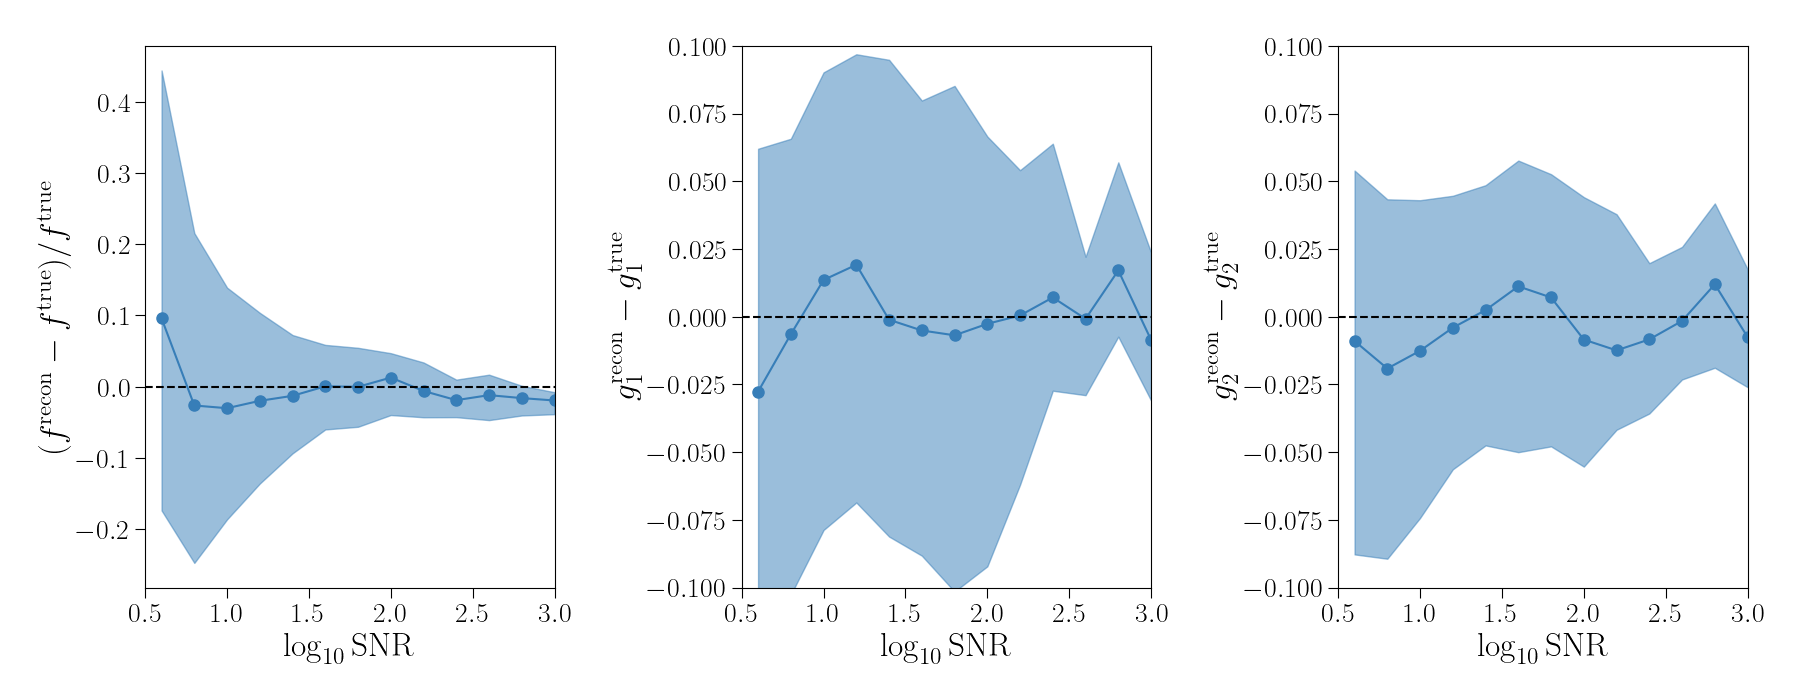
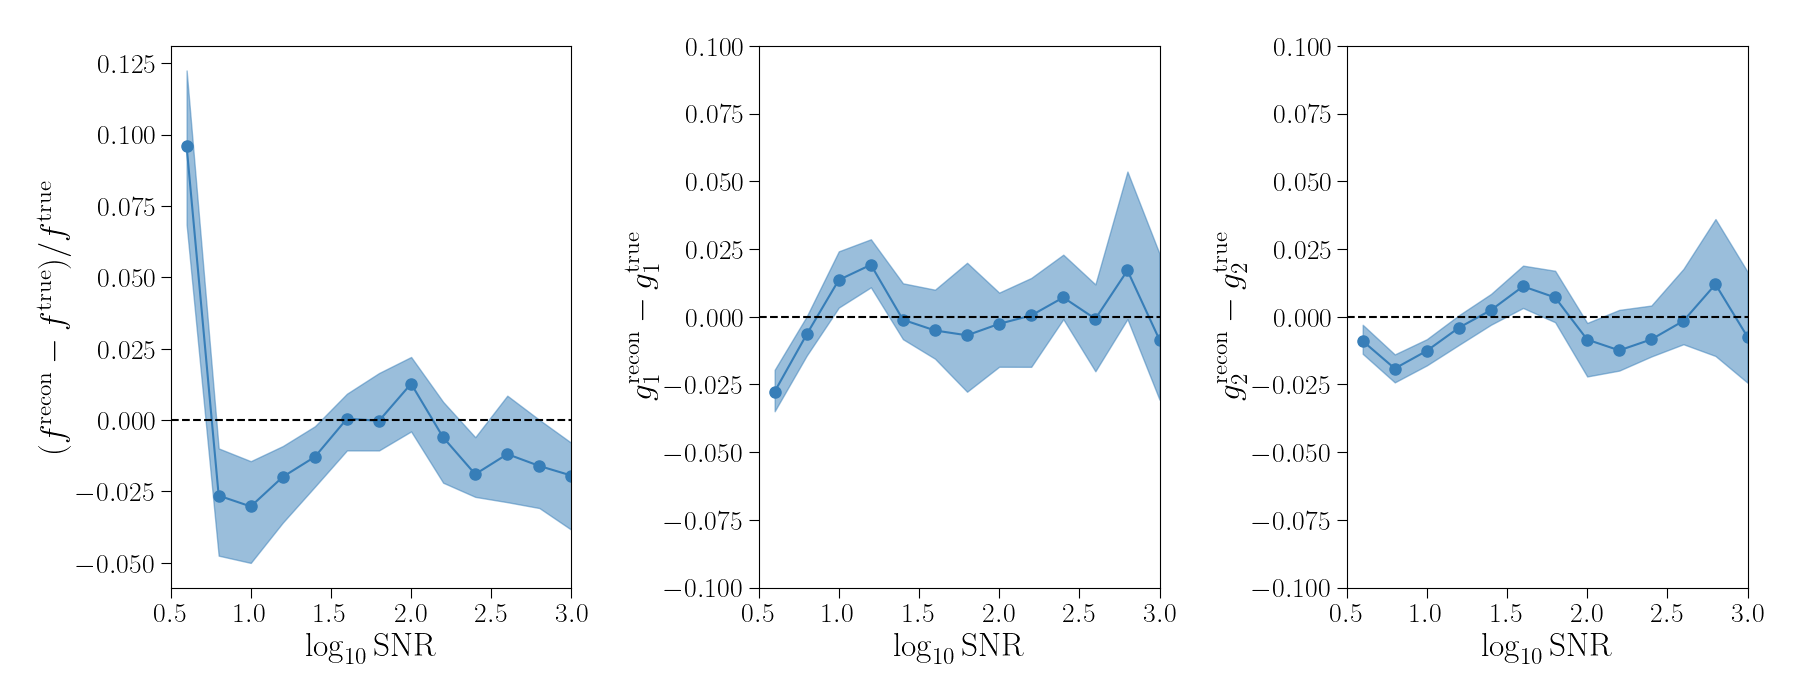
use boostrap to compute errors on mean/median of residuals (#17)
* use mean or median when computing scatter shade plot, but use boostrap 95% confidence interval to plot as the error

* fix ylims

* flake8

diff --git a/case_studies/galsim_galaxies/scripts_figures/blend_figures.py b/case_studies/galsim_galaxies/scripts_figures/blend_figures.py
@@ -226,16 +226,16 @@ class BlendSimulationFigure(BlissFigure):
         xlabel = r"$\log_{10} \rm SNR$"
         ylabel = r"\rm $(f^{\rm recon} - f^{\rm true}) / f^{\rm true}$"
         x, y = np.log10(snr), (efluxes - tfluxes) / tfluxes
-        scatter_shade_plot(ax1, x, y, xlims, delta=0.2)
+        scatter_shade_plot(ax1, x, y, xlims, delta=0.2, use_boot=True)
         ax1.set_ylabel(ylabel)
         ax1.axhline(0, ls="--", color="k")
-        ax1.set_ylim(-0.5, 0.5)
+        ax1.set_ylim(-0.2, 0.4)
 
         xlims = (0, 0.5)
         x, y = blendedness, (efluxes - tfluxes) / tfluxes
-        scatter_shade_plot(ax2, x, y, xlims, delta=0.05)
+        scatter_shade_plot(ax2, x, y, xlims, delta=0.05, use_boot=True)
         ax2.axhline(0, ls="--", color="k")
-        ax2.set_ylim(-0.5, 0.5)
+        ax2.set_ylim(-0.2, 0.4)
 
         # need to mask the (very few) ellipticities that are NaNs from adaptive moments
         te1, te2 = true_ellips[:, 0], true_ellips[:, 1]
@@ -244,38 +244,38 @@ class BlendSimulationFigure(BlissFigure):
         xlims = (0.5, 3)
         ylabel = r"$g_{1}^{\rm recon} - g_{1}^{\rm true}$"
         x, y = np.log10(snr)[mask], (pe1 - te1)[mask]
-        scatter_shade_plot(ax3, x, y, xlims, delta=0.2)
+        scatter_shade_plot(ax3, x, y, xlims, delta=0.2, use_boot=True)
         ax3.set_ylabel(ylabel)
         ax3.axhline(0, ls="--", color="k")
-        ax3.set_ylim(-0.2, 0.2)
+        ax3.set_ylim(-0.05, 0.1)
 
         xlims = (0, 0.5)
         x, y = blendedness[mask], (pe1 - te1)[mask]
-        scatter_shade_plot(ax4, x, y, xlims, delta=0.05)
+        scatter_shade_plot(ax4, x, y, xlims, delta=0.05, use_boot=True)
         ax4.axhline(0, ls="--", color="k")
-        ax4.set_ylim(-0.2, 0.2)
+        ax4.set_ylim(-0.05, 0.1)
 
         xticks = [0.5, 1.0, 1.5, 2.0, 2.5, 3.0]
         xlims = (0.5, 3)
         xlabel = r"$\log_{10} \rm SNR$"
         ylabel = r"$g_{2}^{\rm recon} - g_{2}^{\rm true}$"
         x, y = np.log10(snr)[mask], (pe2 - te2)[mask]
-        scatter_shade_plot(ax5, x, y, xlims, delta=0.2)
+        scatter_shade_plot(ax5, x, y, xlims, delta=0.2, use_boot=True)
         ax5.set_xlabel(xlabel)
         ax5.set_ylabel(ylabel)
         ax5.set_xticks(xticks)
         ax5.axhline(0, ls="--", color="k")
-        ax5.set_ylim(-0.2, 0.2)
+        ax5.set_ylim(-0.05, 0.1)
 
         xticks = [0, 0.1, 0.2, 0.3, 0.4, 0.5]
         xlims = (0, 0.5)
         xlabel = "$B$"
         x, y = blendedness[mask], (pe2 - te2)[mask]
-        scatter_shade_plot(ax6, x, y, xlims=xlims, delta=0.05)
+        scatter_shade_plot(ax6, x, y, xlims=xlims, delta=0.05, use_boot=True)
         ax6.set_xlabel(xlabel)
         ax6.set_xticks(xticks)
         ax6.axhline(0, ls="--", color="k")
-        ax6.set_ylim(-0.2, 0.2)
+        ax6.set_ylim(-0.05, 0.1)
 
         plt.tight_layout()
 

diff --git a/bliss/plotting.py b/bliss/plotting.py
@@ -225,16 +225,26 @@ def add_loc_legend(ax: mpl.axes.Axes, labels: list, cmap1="cool", cmap2="bwr", s
     )
 
 
+def _bootstrap_quantiles(x, fnc, qs, n_boots=10000) -> float:
+    """Return boostrap error of function `fnc` applied to array `x`."""
+    x_boot = np.random.choice(x, size=(n_boots, len(x)), replace=True)
+    x_hat = fnc(x_boot, axis=-1)
+    return np.quantile(x_hat, qs[0]), np.quantile(x_hat, qs[1])
+
+
 def scatter_shade_plot(
     ax: Axes,
     x: np.ndarray,
     y: np.ndarray,
     xlims: Tuple[float, float],
     delta: float,
-    qs: Tuple[float, float] = (0.25, 0.75),
     color: str = "#377eb8",
     alpha: float = 0.5,
+    qs: Tuple[float, float] = (0.025, 0.975),  # 95% confidence interval
+    use_boot=False,
+    use_mean=False,
 ):
+    assert x.ndim == y.ndim == 1
     xbins = np.arange(xlims[0], xlims[1], delta)
 
     xs = np.zeros(len(xbins))
@@ -252,8 +262,13 @@ def scatter_shade_plot(
             yqs[i] = (np.nan, np.nan)
             continue
 
-        ys[i] = np.median(y_bin)
-        yqs[i, :] = np.quantile(y_bin, qs[0]), np.quantile(y_bin, qs[1])
+        fnc = np.mean if use_mean else np.median
+
+        ys[i] = fnc(y_bin)
+        if use_boot:
+            yqs[i, :] = _bootstrap_quantiles(y_bin, fnc, qs)
+        else:
+            yqs[i, :] = np.quantile(y_bin, qs[0]), np.quantile(y_bin, qs[1])
 
     ax.plot(xs, ys, marker="o", c=color, linestyle="-")
     ax.fill_between(xs, yqs[:, 0], yqs[:, 1], color=color, alpha=alpha)

diff --git a/case_studies/galsim_galaxies/scripts_figures/ae_figures.py b/case_studies/galsim_galaxies/scripts_figures/ae_figures.py
@@ -103,7 +103,7 @@ class AutoEncoderFigures(BlissFigure):
         # fluxes
         true_fluxes, recon_fluxes = meas["true_fluxes"], meas["recon_fluxes"]
         x, y = np.log10(snr), (recon_fluxes - true_fluxes) / true_fluxes
-        scatter_shade_plot(ax1, x, y, xlims, delta=0.2)
+        scatter_shade_plot(ax1, x, y, xlims, delta=0.2, use_boot=True)
         ax1.set_xlim(xlims)
         ax1.set_xlabel(xlabel)
         ax1.set_ylabel(r"$(f^{\rm recon} - f^{\rm true}) / f^{\rm true}$")
@@ -113,7 +113,7 @@ class AutoEncoderFigures(BlissFigure):
         # ellipticities
         true_ellip1, recon_ellip1 = meas["true_ellips"][:, 0], meas["recon_ellips"][:, 0]
         x, y = np.log10(snr), recon_ellip1 - true_ellip1
-        scatter_shade_plot(ax2, x, y, xlims, delta=0.2)
+        scatter_shade_plot(ax2, x, y, xlims, delta=0.2, use_boot=True)
         ax2.set_xlim(xlims)
         ax2.set_xlabel(xlabel)
         ax2.set_ylabel(r"$g_{1}^{\rm recon} - g_{1}^{\rm true}$")
@@ -123,7 +123,7 @@ class AutoEncoderFigures(BlissFigure):
 
         true_ellip2, recon_ellip2 = meas["true_ellips"][:, 1], meas["recon_ellips"][:, 1]
         x, y = np.log10(snr), recon_ellip2 - true_ellip2
-        scatter_shade_plot(ax3, x, y, xlims, delta=0.2)
+        scatter_shade_plot(ax3, x, y, xlims, delta=0.2, use_boot=True)
         ax3.set_xlim(xlims)
         ax3.set_xlabel(xlabel)
         ax3.set_ylabel(r"$g_{2}^{\rm recon} - g_{2}^{\rm true}$")
